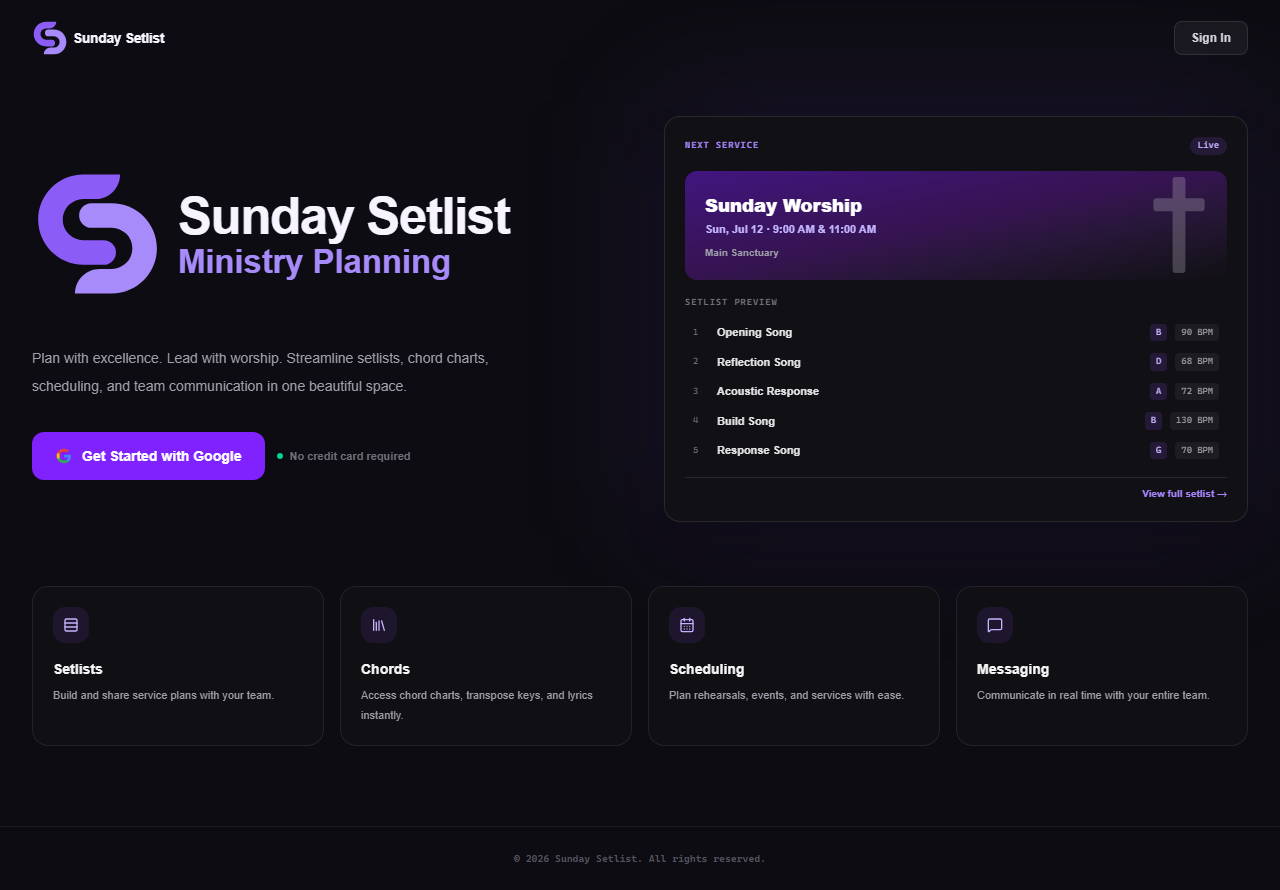
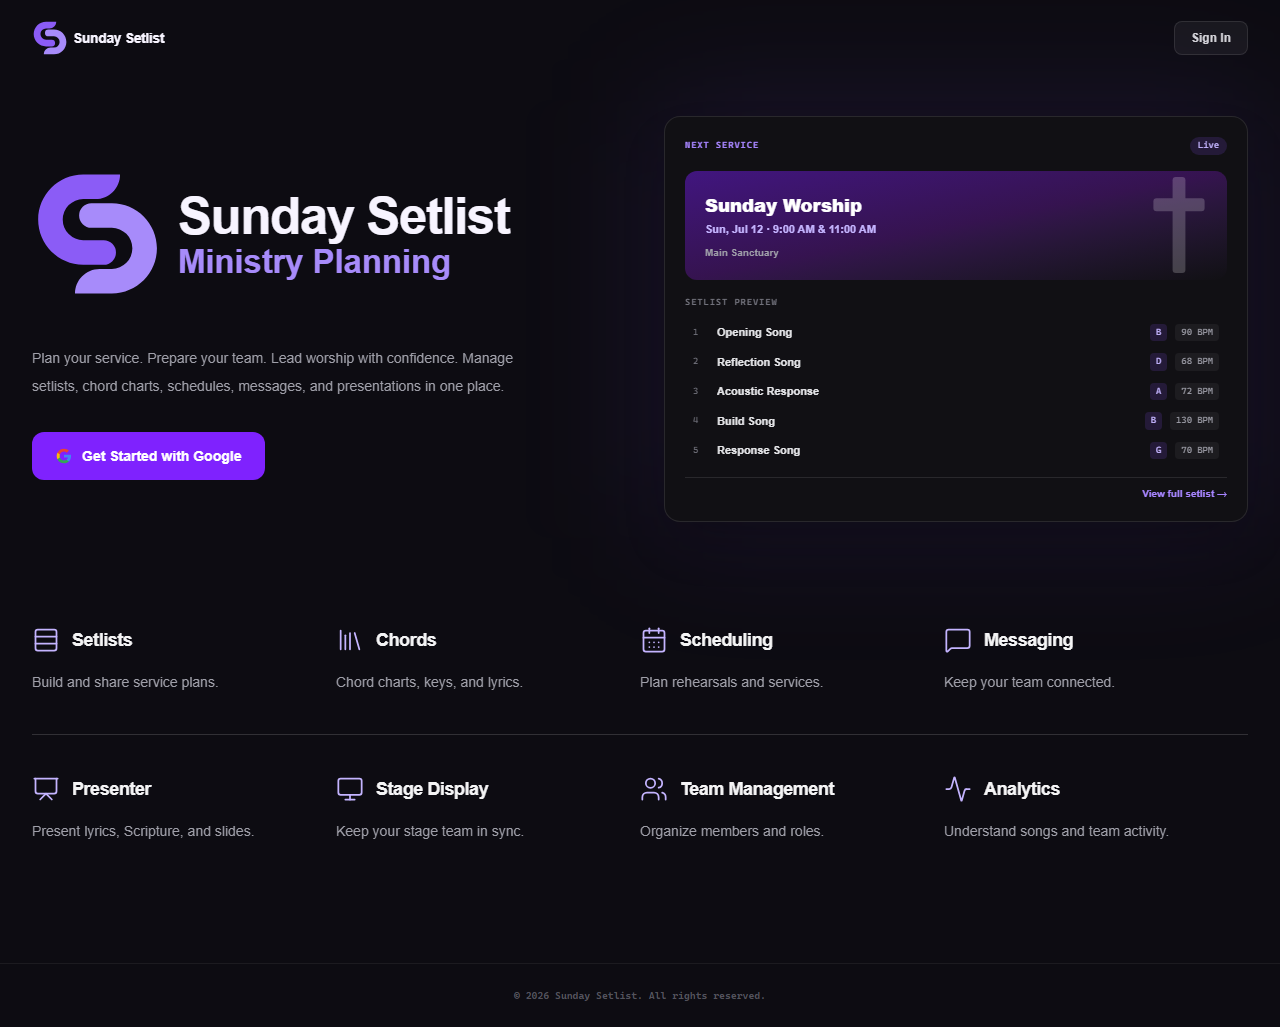
fix(release): restore reviewed website and guard production branch

diff --git a/src/app/page.tsx b/src/app/page.tsx
@@ -1,9 +1,15 @@
-import { CalendarDays, Library, MessageSquare, Rows3 } from "lucide-react";
+import { Activity, CalendarDays, Library, MessageSquare, Monitor, Presentation, Rows3, Users } from "lucide-react";
 import Image from "next/image";
 import Link from "next/link";
+import { redirect } from "next/navigation";
 import { BrandLogo } from "@/components/brand-logo";
+import { isDesktopRuntime } from "@/lib/desktop/runtime";
 
 export default function Home() {
+  if (isDesktopRuntime()) {
+    redirect("/dashboard");
+  }
+
   return (
     <main className="min-h-screen bg-[#0d0c12] text-white overflow-x-hidden">
       {/* Nav */}
@@ -13,14 +19,14 @@ export default function Home() {
         </Link>
         <Link
           href="/login"
-          className="rounded-lg border border-white/10 bg-white/[0.05] px-4 py-2 text-xs font-bold text-zinc-300 transition-all hover:bg-white/[0.10] hover:text-white"
+          className="rounded-lg border border-white/10 bg-white/[0.05] px-3.5 sm:px-4 py-1.5 sm:py-2 text-xs font-bold text-zinc-300 transition-all hover:bg-white/[0.10] hover:text-white shrink-0"
         >
           Sign In
         </Link>
       </nav>
 
       {/* Hero */}
-      <section className="mx-auto grid max-w-7xl gap-12 px-8 pb-16 pt-10 lg:grid-cols-2 lg:items-center">
+      <section className="mx-auto grid max-w-7xl gap-8 lg:gap-12 px-4 sm:px-8 pb-12 sm:pb-16 pt-6 sm:pt-10 lg:grid-cols-2 lg:items-center">
         {/* Left */}
         <div className="animate-fade-up">
           <h1 className="mb-6 sm:mb-8">
@@ -33,16 +39,16 @@ export default function Home() {
               className="h-auto w-full max-w-lg object-contain"
             />
           </h1>
-          <p className="mt-6 max-w-lg text-sm font-medium leading-7 text-zinc-400">
-            Plan with excellence. Lead with worship. Streamline setlists, chord charts, scheduling, and team communication in one beautiful space.
+          <p className="mt-4 sm:mt-6 max-w-lg text-xs sm:text-sm font-medium leading-6 sm:leading-7 text-zinc-400">
+            Plan your service. Prepare your team. Lead worship with confidence. Manage setlists, chord charts, schedules, messages, and presentations in one place.
           </p>
 
-          <div className="mt-8 flex flex-col gap-3 sm:flex-row sm:items-center">
+          <div className="mt-6 sm:mt-8 flex flex-col gap-3 sm:flex-row sm:items-center">
             <Link
               href="/login"
-              className="group inline-flex items-center gap-2.5 rounded-xl bg-violet-600 px-6 py-3.5 text-sm font-bold text-white transition-all duration-200 hover:bg-violet-500"
+              className="group inline-flex items-center justify-center gap-2.5 rounded-xl bg-violet-600 px-5 sm:px-6 py-3 sm:py-3.5 text-xs sm:text-sm font-bold text-white transition-all duration-200 hover:bg-violet-500 w-full sm:w-auto text-center"
             >
-              <svg className="size-4" viewBox="0 0 24 24" fill="none">
+              <svg className="size-4 shrink-0" viewBox="0 0 24 24" fill="none">
                 <path d="M22.56 12.25c0-.78-.07-1.53-.2-2.25H12v4.26h5.92c-.26 1.37-1.04 2.53-2.21 3.31v2.77h3.57c2.08-1.92 3.28-4.74 3.28-8.09z" fill="#4285F4"/>
                 <path d="M12 23c2.97 0 5.46-.98 7.28-2.66l-3.57-2.77c-.98.66-2.23 1.06-3.71 1.06-2.86 0-5.29-1.93-6.16-4.53H2.18v2.84C3.99 20.53 7.7 23 12 23z" fill="#34A853"/>
                 <path d="M5.84 14.09c-.22-.66-.35-1.36-.35-2.09s.13-1.43.35-2.09V7.07H2.18C1.43 8.55 1 10.22 1 12s.43 3.45 1.18 4.93l2.85-2.22.81-.62z" fill="#FBBC05"/>
@@ -50,36 +56,32 @@ export default function Home() {
               </svg>
               Get Started with Google
             </Link>
-            <p className="flex items-center gap-1.5 text-[11px] font-semibold text-zinc-500">
-              <span className="size-1.5 rounded-full bg-emerald-400 inline-block" />
-              No credit card required
-            </p>
           </div>
         </div>
 
         {/* Right — Dashboard Preview */}
         <div className="animate-fade-up relative" style={{ animationDelay: "120ms" }}>
           <div className="absolute -inset-4 rounded-3xl bg-violet-500/10 blur-3xl" />
-          <div className="relative overflow-hidden rounded-2xl border border-white/10 bg-[#111014] p-5 shadow-2xl">
+          <div className="relative overflow-hidden rounded-2xl border border-white/10 bg-[#111014] p-4 sm:p-5 shadow-2xl">
             {/* Mini preview header */}
-            <div className="mb-4 flex items-center justify-between">
+            <div className="mb-3 sm:mb-4 flex items-center justify-between">
               <span className="font-mono text-[9px] font-bold uppercase tracking-widest text-violet-400">Next Service</span>
               <span className="rounded-full bg-violet-500/15 px-2 py-0.5 font-mono text-[9px] text-violet-300">Live</span>
             </div>
             {/* Service hero mini */}
-            <div className="relative overflow-hidden rounded-xl bg-gradient-to-br from-violet-900/80 via-purple-900/50 to-[#111014] p-5">
+            <div className="relative overflow-hidden rounded-xl bg-gradient-to-br from-violet-900/80 via-purple-900/50 to-[#111014] p-4 sm:p-5">
               <div className="absolute right-4 top-1/2 -translate-y-1/2 opacity-20">
-                <svg viewBox="0 0 60 90" className="w-16 text-white fill-current">
+                <svg viewBox="0 0 60 90" className="w-12 sm:w-16 text-white fill-current">
                   <rect x="24" y="0" width="12" height="90" rx="3" />
                   <rect x="6" y="20" width="48" height="12" rx="3" />
                 </svg>
               </div>
-              <p className="text-lg font-extrabold text-white">Sunday Worship</p>
-              <p className="mt-0.5 text-[11px] font-semibold text-violet-300">Sun, Jul 12 · 9:00 AM & 11:00 AM</p>
-              <p className="mt-2 text-[10px] font-semibold text-zinc-400">Main Sanctuary</p>
+              <p className="text-base sm:text-lg font-extrabold text-white">Sunday Worship</p>
+              <p className="mt-0.5 text-[10px] sm:text-[11px] font-semibold text-violet-300">Sun, Jul 12 · 9:00 AM & 11:00 AM</p>
+              <p className="mt-2 text-[9px] sm:text-[10px] font-semibold text-zinc-400">Main Sanctuary</p>
             </div>
             {/* Setlist preview mini */}
-            <div className="mt-4">
+            <div className="mt-3 sm:mt-4">
               <p className="mb-2 font-mono text-[9px] font-bold uppercase tracking-widest text-zinc-500">Setlist Preview</p>
               {[
                 ["Opening Song", "B", "90 BPM"],
@@ -88,11 +90,11 @@ export default function Home() {
                 ["Build Song", "B", "130 BPM"],
                 ["Response Song", "G", "70 BPM"],
               ].map(([title, key, bpm], i) => (
-                <div key={i} className="flex items-center gap-2 rounded-lg px-2 py-1.5 transition hover:bg-white/[0.04]">
+                <div key={i} className="flex items-center gap-2 rounded-lg px-2 py-1.5 transition hover:bg-white/[0.04] min-w-0">
                   <span className="w-4 shrink-0 font-mono text-[9px] text-zinc-500">{i + 1}</span>
-                  <span className="flex-1 text-[11px] font-semibold text-zinc-200">{title}</span>
-                  <span className="rounded px-1.5 py-0.5 font-mono text-[9px] bg-violet-500/15 text-violet-300">{key}</span>
-                  <span className="rounded px-1.5 py-0.5 font-mono text-[9px] bg-white/[0.05] text-zinc-400">{bpm}</span>
+                  <span className="flex-1 text-[11px] font-semibold text-zinc-200 truncate">{title}</span>
+                  <span className="rounded px-1.5 py-0.5 font-mono text-[9px] bg-violet-500/15 text-violet-300 shrink-0">{key}</span>
+                  <span className="rounded px-1.5 py-0.5 font-mono text-[9px] bg-white/[0.05] text-zinc-400 shrink-0">{bpm}</span>
                 </div>
               ))}
               <p className="mt-3 border-t border-white/10 pt-2 text-right text-[10px] font-bold text-violet-400">View full setlist →</p>
@@ -102,23 +104,27 @@ export default function Home() {
       </section>
 
       {/* Features */}
-      <section className="mx-auto max-w-7xl px-8 pb-20 animate-fade-up" style={{ animationDelay: "200ms" }}>
-        <div className="grid grid-cols-2 gap-4 sm:grid-cols-4">
+      <section className="mx-auto max-w-7xl px-4 sm:px-8 pb-16 sm:pb-20 animate-fade-up" style={{ animationDelay: "200ms" }}>
+        <div className="grid grid-cols-1 sm:grid-cols-2 lg:grid-cols-4">
           {[
-            { icon: Rows3, title: "Setlists", body: "Build and share service plans with your team." },
-            { icon: Library, title: "Chords", body: "Access chord charts, transpose keys, and lyrics instantly." },
-            { icon: CalendarDays, title: "Scheduling", body: "Plan rehearsals, events, and services with ease." },
-            { icon: MessageSquare, title: "Messaging", body: "Communicate in real time with your entire team." },
-          ].map((f) => (
+            { icon: Rows3, title: "Setlists", body: "Build and share service plans." },
+            { icon: Library, title: "Chords", body: "Chord charts, keys, and lyrics." },
+            { icon: CalendarDays, title: "Scheduling", body: "Plan rehearsals and services." },
+            { icon: MessageSquare, title: "Messaging", body: "Keep your team connected." },
+            { icon: Presentation, title: "Presenter", body: "Present lyrics, Scripture, and slides." },
+            { icon: Monitor, title: "Stage Display", body: "Keep your stage team in sync." },
+            { icon: Users, title: "Team Management", body: "Organize members and roles." },
+            { icon: Activity, title: "Analytics", body: "Understand songs and team activity." },
+          ].map((feature) => (
             <div
-              key={f.title}
-              className="group rounded-2xl border border-white/[0.08] bg-[#111014]/80 p-5 transition-all duration-200 hover:border-violet-400/30 hover:bg-white/[0.05]"
+              key={feature.title}
+              className="min-w-0 border-t border-white/15 py-7 first:border-t-0 sm:py-9 sm:pr-6 sm:[&:nth-child(2)]:border-t-0 sm:[&:nth-child(even)]:pr-0 lg:py-10 lg:pr-6 lg:[&:nth-child(-n+4)]:border-t-0 lg:[&:nth-child(even)]:pr-6 lg:[&:nth-child(4n)]:pr-0"
             >
-              <span className="inline-flex size-9 items-center justify-center rounded-xl bg-violet-500/10 text-violet-300 transition-all duration-200 group-hover:bg-violet-500/20">
-                <f.icon className="size-4" />
-              </span>
-              <h2 className="mt-4 text-sm font-bold text-zinc-100">{f.title}</h2>
-              <p className="mt-1.5 text-[11px] font-medium leading-5 text-zinc-400">{f.body}</p>
+              <div className="flex items-center gap-3">
+                <feature.icon aria-hidden="true" className="size-6 shrink-0 text-violet-300 sm:size-7" strokeWidth={1.5} />
+                <h2 className="text-base font-bold tracking-tight text-zinc-100 sm:text-lg">{feature.title}</h2>
+              </div>
+              <p className="mt-4 text-xs leading-6 text-zinc-400 sm:text-sm">{feature.body}</p>
             </div>
           ))}
         </div>

diff --git a/src/app/actions.workspaces.test.ts b/src/app/actions.workspaces.test.ts
@@ -10,9 +10,10 @@ vi.mock("@/lib/desktop/sync", () => ({}));
 vi.mock("@/lib/push-notifications", () => ({ notifyProfiles: vi.fn() }));
 vi.mock("@/lib/domain/activity", () => ({ logActivity: vi.fn() }));
 vi.mock("@/lib/supabase/team-context", () => ({ getCurrentTeamContext: vi.fn(), getCurrentTeamContextForClient: vi.fn() }));
-import { createEventAction, updateEventAction, updateSetlistAction, reviewEventAction, updateSetlistSongKeyAction } from "./actions";
+import { createEventAction, createSetlistAction, updateEventAction, updateSetlistAction, reviewEventAction, updateSetlistSongKeyAction } from "./actions";
 const teamId = "11111111-1111-4111-8111-111111111111", memberId = "22222222-2222-4222-8222-222222222222", targetId = "33333333-3333-4333-8333-333333333333";
 const eventForm = () => { const form = new FormData(); Object.entries({ title:"Sunday",eventType:"service",date:"2026-10-11",startTime:"09:00",endTime:"11:00",location:"Hall",worshipLeader:memberId,revision:"1",eventId:targetId,recurrence:"monthly" }).forEach(([key,value])=>form.set(key,value)); return form; };
+const setlistForm = () => { const form = new FormData(); Object.entries({title:"Sunday songs",serviceDate:"2026-10-11",eventType:"service",serviceType:"Sunday Worship",location:"Hall",callTime:"08:00",rehearsalTime:"08:30"}).forEach(([key,value])=>form.set(key,value));form.append("songIds",targetId);return form; };
 beforeEach(() => {
   vi.clearAllMocks(); mocks.role="owner"; mocks.customPermissions=[]; mocks.rpc.mockResolvedValue({data:null,error:{message:"write failed"}});
   mocks.from.mockImplementation((table:string) => {
@@ -22,6 +23,30 @@ beforeEach(() => {
   mocks.client.mockResolvedValue({auth:{getUser:async()=>({data:{user:{id:targetId}}})},from:mocks.from,rpc:mocks.rpc});
 });
 describe("atomic workspace action outcomes", () => {
+  it("creates an approved event through the guarded workflow", async () => {
+    mocks.rpc.mockResolvedValue({data:targetId,error:null});
+    await createEventAction({ok:false,message:""},eventForm());
+    expect(mocks.rpc).toHaveBeenCalledWith("save_event_workspace",expect.objectContaining({p_team_id:teamId,p_event_id:null}));
+    expect(mocks.redirect).toHaveBeenCalledWith(`/events/${targetId}`);
+  });
+  it("preserves an event draft when creation fails", async () => {
+    expect(await createEventAction({ok:false,message:""},eventForm())).toMatchObject({ok:false,message:expect.stringContaining("No changes were applied")});
+    expect(mocks.redirect).not.toHaveBeenCalled();
+    expect(mocks.revalidate).not.toHaveBeenCalled();
+  });
+  it("creates a setlist and its songs through the guarded workflow", async () => {
+    const form=setlistForm();
+    mocks.rpc.mockResolvedValue({data:targetId,error:null});
+    await createSetlistAction({ok:false,message:""},form);
+    expect(mocks.rpc).toHaveBeenCalledWith("save_setlist_workspace",expect.objectContaining({p_team_id:teamId,p_setlist_id:null,p_song_ids:[targetId]}));
+    expect(mocks.redirect).toHaveBeenCalledWith(`/setlists/${targetId}`);
+  });
+  it("preserves a setlist draft when creation fails", async () => {
+    const form=setlistForm();
+    expect(await createSetlistAction({ok:false,message:""},form)).toMatchObject({ok:false,message:expect.stringContaining("No changes were applied")});
+    expect(mocks.redirect).not.toHaveBeenCalled();
+    expect(mocks.revalidate).not.toHaveBeenCalled();
+  });
   it("preserves the key and avoids success revalidation when the guarded slot RPC rejects a foreign or unavailable slot", async () => {
     const form = new FormData();form.set("setlistId",targetId);form.set("slotId",memberId);form.set("assignedKey","Eb");
     mocks.rpc.mockResolvedValue({data:null,error:{code:"42501",message:"Slot unavailable"}});

diff --git a/e2e/branding.spec.ts b/e2e/branding.spec.ts
@@ -1,6 +1,21 @@
 import { expect, test } from "@playwright/test";
 import { blockRemoteSupabase } from "./demo-network";
 
+test("dashboard shortcuts retain bare icons after a production build", async ({ page }) => {
+  const blockedRequests = await blockRemoteSupabase(page);
+  await page.goto("/dashboard");
+  const shortcuts = page.locator("section").filter({ has: page.getByRole("heading", { name: "Quick Access", exact: true }) });
+  await expect(shortcuts).toBeVisible();
+  const icons = shortcuts.locator("a svg");
+  expect(await icons.count()).toBeGreaterThan(0);
+  for (const icon of await icons.all()) {
+    expect(await icon.evaluate(element => getComputedStyle(element.parentElement!).backgroundColor)).toBe("rgba(0, 0, 0, 0)");
+    await icon.hover();
+    expect(await icon.evaluate(element => getComputedStyle(element.parentElement!).backgroundColor)).toBe("rgba(0, 0, 0, 0)");
+  }
+  expect(blockedRequests).toEqual([]);
+});
+
 test("Sunday Setlist branding renders across public and team screens", async ({ page }, testInfo) => {
   test.setTimeout(120_000);
   const blockedRequests = await blockRemoteSupabase(page);
@@ -15,6 +30,7 @@ test("Sunday Setlist branding renders across public and team screens", async ({ 
     await expect(page.locator("body")).not.toContainText("Anointed Worship");
     const logos = page.locator('img[src*="sunday-setlist"]:visible');
     if (path !== "/worship-remote") {
+      await expect(logos.first()).toBeVisible();
       expect(await logos.count(), `${path} should show the selected brand`).toBeGreaterThan(0);
     }
     for (const logo of await logos.all()) {

diff --git a/docs/PRODUCTION-REGRESSION-2026-10-09.md b/docs/PRODUCTION-REGRESSION-2026-10-09.md
@@ -1,0 +1,42 @@
+# Production regression restoration — 2026-10-09
+
+Tickets REG-01 and REG-02. Owner: coordinator; independent reviewer: Laura. Standard lane. Local candidate is `output/push-sunday-setlist`, based on reviewed main commit `70522cbe0ee1b725ab4f66c3a2286f818b9d3726`. Original dirty checkout and unrelated work remain preserved.
+
+## Confirmed cause
+
+Vercel production alias `anointed-worship-app.vercel.app` points to deployment `dpl_BsJ8Wt9sU2nTzckrSvinb85c3rdo`, source `redeploy`, commit `064015a6c97a5fa16c81e861f8934b3d59d86acd`, branch `codex/website-production-readiness`. This branch predates the reviewed fixes on main. Its metadata still uses Anointed Worship, dashboard shortcuts have purple icon backgrounds, and Analytics uses the earlier layout.
+
+Supabase production `xvrndwkghxkqsvxxtqym` read-only logs show `permission denied for table events` and `permission denied for table setlists`, including 2026-10-09 12:19:37Z and 12:20:29Z. Catalog inspection confirms authenticated direct INSERT privilege is false for both tables, while EXECUTE is true for `save_event_workspace` and `save_setlist_workspace`. The accidentally deployed code uses direct inserts; reviewed main uses those guarded, atomic workflows. No permissions need to be relaxed.
+
+## Candidate behavior
+
+- Retains Sunday Setlist metadata, transparent purple versioned favicon, app assets and login layout from reviewed main.
+- Retains background-free dashboard shortcuts, including hover and keyboard focus.
+- Retains updated Analytics with filters, charts, member usage and owner/admin authorization.
+- Uses reviewed main event/setlist forms and guarded save workflows, including validation, team checks and atomic error handling. This restores main's scheduling forms rather than shipping the accidental branch's standalone-setlist changes against an incompatible database contract.
+- Ports the latest public landing page from `064015a` exactly, preserving the user's latest landing design.
+- Adds a prebuild check requiring `VERCEL_GIT_COMMIT_REF=main` for Vercel production. Preview branches remain allowed. Adds creation success/failure tests and a rendered shortcut regression check.
+
+The source guard cannot protect historical commits or reused deployment artifacts that do not contain it. Vercel's Production Branch must be main, and the reviewed commit SHA must be checked before production publication. Do not redeploy the old production-readiness branch.
+
+## Verification
+
+- Production demo build: `E2E_FORCE_DEMO=1 NEXT_PUBLIC_E2E_FORCE_DEMO=1 npm run build` passed, including compilation and TypeScript. Sandbox first attempt failed SWC path canonicalization; permitted local execution passed.
+- `npm run typecheck`: passed.
+- `npm run lint:website`: passed. The command was followed by audit in the same shell; audit alone initially failed sandbox DNS.
+- `npm run test:website`: 118 files, 613 tests passed. Initial sandbox run passed all 608 collected tests but could not collect the Supabase lint suite; permitted local execution passed all suites.
+- Targeted actions, forms, preflight, Analytics UI/data tests: 60/60 passed.
+- Independent Laura checks: 30/30 tests, scoped strict lint and whitespace passed; code review approved all four initial changed source/test files.
+- `npm audit --omit=dev --audit-level=high`: zero vulnerabilities on permitted network retry.
+- `npm run security:secrets`: passed, zero findings. A first run scanned generated Node compile-cache test fixtures as a private key; the task-created temporary directory was removed, and the scan passed. No application credential was changed.
+- Analytics desktop/mobile browser checks: 4/4 passed, including filtering, charts, narrow viewports, keyboard interaction and reduced motion, with remote Supabase blocked.
+- Branding/shortcut browser checks: 6/6 passed on final desktop/mobile run (23.7s), verifying public/team routes, title, images, manifest, icons and shortcut transparency including hover. Initial browser launch used unavailable sandbox browser paths; permitted installed Chromium retry worked. Tests were corrected to await streamed content and select the responsive visible logo. Final combined affected browser evidence is 10/10 across branding and Analytics.
+- No database writes, migrations, push, deployment, credential edits or Vercel setting changes performed. Live authenticated creation remains a post-activation acceptance check, not a claimed test pass.
+
+## Gates and activation
+
+Gates 01–12 and 14–22: intake, ownership, source contracts, data flow, existing Next guide, validation and safe failure paths reviewed. Gate 13 N/A: one implementer; independent read-only review only. Gates 23–29: production catalog/log checks and existing guarded RPC SQL reviewed; no schema or grant changes. Gates 30–36: results above. Gate 37: local criteria verified; live activation and authenticated acceptance await approval. No global checks script is provided by the installed engineering-gates skill; project commands were used. No coverage rerun required for this restoration and small preflight branch, whose cases are explicitly tested. No changed backend implementation or dependency.
+
+Reviewer model/effort: assignment `gpt-6.1-sol medium`; effective launch receipt and usage telemetry unavailable. Coordinator model/effort inherited, not independently verifiable. No application repair loop exceeded three attempts.
+
+Next action: obtain explicit approval, integrate only this candidate into main, push/deploy the exact reviewed SHA, keep Vercel production source on main, verify public branding and authenticated event/setlist creation. Production remains affected until activation.
